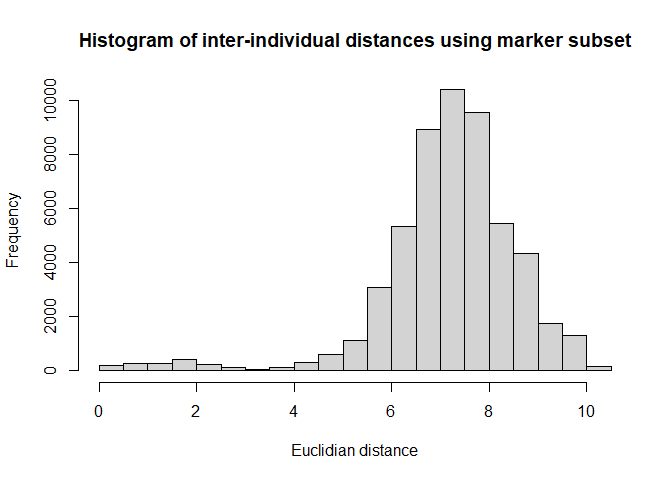
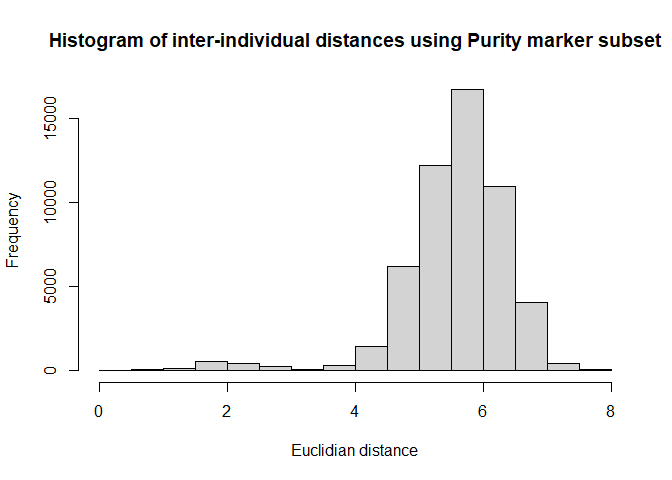
Use large VCF

diff --git a/Pedigree_verification.md b/Pedigree_verification.md
@@ -30,6 +30,7 @@ to point to your dataset.
 
 ``` r
 bg <- "data/331_new_data_vcf_IBRC.vcf.bgz"
+rds <- "data/yam336.m2M2vsnps_missing0.9.recode.rds" # unfiltered markers; optional
 refgenome <- FaFile("data/TDr96_F1_v2_PseudoChromosome.rev07.fasta")
 ```
 
@@ -122,7 +123,7 @@ ggplot(mapping = aes(x = alfreq, y = Ho/He)) +
 
 ![](Pedigree_verification_files/figure-gfm/hohe_vs_alfreq-1.png)<!-- -->
 
-We can see what proportion of markers we would lose at this cutoff, It’s
+We can see what proportion of markers we would lose at this cutoff. It’s
 about 11%.
 
 ``` r
@@ -252,31 +253,58 @@ head(grp_alfreq)
 ## Technical parameters
 
 For this portion of the workflow, we’ll import SNP metadata using the
-`VariantAnnotation` package.
+`VariantAnnotation` package. If you are just working with one VCF, use
+the following code:
 
 ``` r
 myvcf <- readVcf(bg,
                  param = ScanVcfParam(geno = NA))
+```
+
+Otherwise, if you have a larger VCF, with a bigger set of markers, read
+it from the RDS made during setup:
+
+``` r
+myvcf <- readRDS(rds)
 
 rowRanges(myvcf)
 ```
 
-    ## GRanges object with 136429 ranges and 5 metadata columns:
-    ##                     seqnames    ranges strand | paramRangeID            REF                ALT      QUAL      FILTER
-    ##                        <Rle> <IRanges>  <Rle> |     <factor> <DNAStringSet> <DNAStringSetList> <numeric> <character>
-    ##      chrom_01_32840    OM_01     32840      * |           NA              G                  A        NA        PASS
-    ##      chrom_01_45700    OM_01     45700      * |           NA              A                  T        NA        PASS
-    ##      chrom_01_58956    OM_01     58956      * |           NA              T                  C        NA        PASS
-    ##      chrom_01_62865    OM_01     62865      * |           NA              A                  T        NA        PASS
-    ##      chrom_01_65124    OM_01     65124      * |           NA              G                  T        NA        PASS
-    ##                 ...      ...       ...    ... .          ...            ...                ...       ...         ...
-    ##   chrom_20_33017477    OM_20  33017477      * |           NA              A                  G        NA        PASS
-    ##   chrom_20_33017823    OM_20  33017823      * |           NA              C                  T        NA        PASS
-    ##   chrom_20_33017839    OM_20  33017839      * |           NA              T                  C        NA        PASS
-    ##   chrom_20_33017917    OM_20  33017917      * |           NA              T                  C        NA        PASS
-    ##   chrom_20_33018263    OM_20  33018263      * |           NA              A                  G        NA        PASS
+    ## GRanges object with 6095038 ranges and 5 metadata columns:
+    ##                         seqnames    ranges strand | paramRangeID            REF                ALT      QUAL      FILTER
+    ##                            <Rle> <IRanges>  <Rle> |     <factor> <DNAStringSet> <DNAStringSetList> <numeric> <character>
+    ##      chrom_01:32610_A/T chrom_01     32610      * |           NA              A                  T  11.38340           .
+    ##      chrom_01:32612_G/T chrom_01     32612      * |           NA              G                  T   9.86092           .
+    ##      chrom_01:32617_A/C chrom_01     32617      * |           NA              A                  C 352.00000           .
+    ##      chrom_01:32628_C/T chrom_01     32628      * |           NA              C                  T 118.00000           .
+    ##      chrom_01:32656_A/G chrom_01     32656      * |           NA              A                  G 293.00000           .
+    ##                     ...      ...       ...    ... .          ...            ...                ...       ...         ...
+    ##   chrom_20:33018647_T/G chrom_20  33018647      * |           NA              T                  G 999.00000           .
+    ##   chrom_20:33018670_A/T chrom_20  33018670      * |           NA              A                  T 352.00000           .
+    ##   chrom_20:33018687_C/G chrom_20  33018687      * |           NA              C                  G 999.00000           .
+    ##   chrom_20:33018902_T/C chrom_20  33018902      * |           NA              T                  C   6.42809           .
+    ##   chrom_20:33018924_C/T chrom_20  33018924      * |           NA              C                  T 999.00000           .
     ##   -------
-    ##   seqinfo: 20 sequences from an unspecified genome; no seqlengths
+    ##   seqinfo: 2253 sequences from an unspecified genome
+
+Since we have quality scores, we will look at the distribution.
+
+``` r
+hist(rowRanges(myvcf)$QUAL, xlab = "Quality score",
+     main = "Histogram of quality scores in large VCF")
+```
+
+![](Pedigree_verification_files/figure-gfm/qualhist-1.png)<!-- -->
+
+This suggests filtering to only keep the highest scores is advisable. We
+will also make sure to keep any SNPs that were in our smaller VCF.
+
+``` r
+temp <- paste(seqnames(myvcf), start(myvcf), sep = "_")
+
+myvcf <- myvcf[rowRanges(myvcf)$QUAL > 900 | 
+                 temp %in% rownames(snpdf),]
+```
 
 ### GC content
 
@@ -306,8 +334,8 @@ snpdf2 <- filter(snpdf, GCcontent >= 0.4, GCcontent <= 0.6)
 
 ### Number of flanking SNPs
 
-Although we’ll annotate flanking SNPs, the fewer there are, the more
-likely the marker won’t have technical problems.
+Although we’ll annotate flanking SNPs, the fewer there are, the less
+likely the marker will have technical problems.
 
 ``` r
 snpdf2$Nflanking <- nFlankingSNPs(myvcf, rownames(snpdf2))
@@ -318,80 +346,192 @@ hist(snpdf2$Nflanking, xlab = "Number of flanking SNPs",
 
 ![](Pedigree_verification_files/figure-gfm/nflank-1.png)<!-- -->
 
-There seem to be plenty with no flanking SNPs, so we will just keep
-those.
-
 ``` r
-snpdf3 <- filter(snpdf2, Nflanking == 0)
+table(snpdf2$Nflanking)
 ```
 
-### Choosing a set of markers
+    ## 
+    ##     0     1     2     3     4     5     6     7     8     9    10    11    12    13    14    15 
+    ##  5925 10224 10255  8104  5057  2576  1188   494   259   107    60    36     8     7     4     2
+
+The cutoff is arbitrary, but let’s keep markers with two or fewer
+flanking SNPs.
+
+``` r
+snpdf3 <- filter(snpdf2, Nflanking <= 2)
+```
+
+## Choosing a set of markers
 
 Since we are selecting a small set of markers, we want to not only make
 sure that each individual marker has a high minor allele frequency to
 maximize its information content, but also that the markers complement
 each other well so that they can distinguish individuals and genetic
-groups. In the file
-[evaluate\_marker\_sets.R](src/evaluate_marker_sets.R) there is a
-function to use a [simulated annealing
+groups.
+
+Two approaches are presented here. One is a Galaxy tool developed by
+Carlos Ignacio for finding sets of markers that distinguish all
+accessions. The second is an algorithm I developed to maximize diversity
+captured within and between genetic groups.
+
+### Galaxy tool
+
+First, we have to export our set of suitable markers back to VCF. Some
+conversion of marker and chromosome names is done here in order to get
+everything to match.
+
+``` r
+rr3 <- rowRanges(myvcf)[match(rownames(snpdf3),
+                              paste(seqnames(myvcf), start(myvcf), sep = "_"))]
+rr3a <- GRanges(sub("chrom", "OM", seqnames(rr3)), ranges(rr3))
+subvcf <- readVcf(bg, genome = seqinfo(rr3a),
+                  param = ScanVcfParam(which = rr3a))
+
+writeVcf(subvcf, filename = "results/marker_subset.vcf")
+```
+
+Now, on Galaxy, use the [Purity
+tool](http://galaxy-demo.excellenceinbreeding.org/root?tool_id=purity_beta)
+on that VCF file. I set it to select 50 markers after considering 10,000
+solutions, and left the distance cutoff at 0.05. Two files were output,
+and I downloaded the first to my `results` folder. Below I will import
+it to get the marker set.
+
+``` r
+markers_purity <- read.delim("results/Galaxy9-[Purity_(beta)_on_data_8].tabular")$Name[1:50]
+
+sort(markers_purity)
+```
+
+    ##  [1] "chrom_01_13215574" "chrom_01_16722696" "chrom_03_8145709"  "chrom_05_1402614"  "chrom_05_15642980" "chrom_05_16166857" "chrom_05_19197424" "chrom_06_11370264"
+    ##  [9] "chrom_06_1389600"  "chrom_06_16474865" "chrom_06_1721907"  "chrom_06_20333485" "chrom_07_25601418" "chrom_07_25862177" "chrom_08_14532723" "chrom_09_17245165"
+    ## [17] "chrom_09_20244151" "chrom_10_23384975" "chrom_11_15371387" "chrom_11_7476286"  "chrom_12_10725268" "chrom_12_19461014" "chrom_12_19554292" "chrom_12_19646887"
+    ## [25] "chrom_12_9869300"  "chrom_13_2047134"  "chrom_13_45513"    "chrom_14_8004400"  "chrom_15_13652946" "chrom_15_15308370" "chrom_15_182038"   "chrom_15_3166274" 
+    ## [33] "chrom_15_3532953"  "chrom_15_3558766"  "chrom_16_11923021" "chrom_16_11941748" "chrom_16_12630527" "chrom_16_18591145" "chrom_16_22290712" "chrom_16_8905213" 
+    ## [41] "chrom_17_12293584" "chrom_17_13343607" "chrom_17_19171588" "chrom_17_2594646"  "chrom_17_2672794"  "chrom_18_15163101" "chrom_18_16385238" "chrom_19_22645412"
+    ## [49] "chrom_19_22953072" "chrom_20_31820360"
+
+### Simulated annealing algorithm
+
+In the file [evaluate\_marker\_sets.R](src/evaluate_marker_sets.R) there
+is a function to use a [simulated annealing
 algorithm](https://en.wikipedia.org/wiki/Simulated_annealing) to find
 optimal sets of markers that capture diversity within and between
 genetic groups.
 
 ``` r
-markerset <- findMarkerSet(grp_alfreq[rownames(snpdf3),], nSNP = 50)
+markers_simanneal <- findMarkerSet(grp_alfreq[rownames(snpdf3),], nSNP = 50)$Set
 
-sort(markerset$Set)
+sort(markers_simanneal)
 ```
 
-    ##  [1] "chrom_01_23460613" "chrom_01_7371392"  "chrom_02_18854175" "chrom_02_8192166"  "chrom_03_3145899"  "chrom_04_10618167" "chrom_04_1422542"  "chrom_04_8709401" 
-    ##  [9] "chrom_05_17440494" "chrom_05_26274143" "chrom_06_13437232" "chrom_06_1447442"  "chrom_06_15510521" "chrom_06_19822795" "chrom_06_469304"   "chrom_07_19048297"
-    ## [17] "chrom_08_16432568" "chrom_08_19093371" "chrom_08_2766827"  "chrom_08_3830330"  "chrom_08_5200475"  "chrom_09_1827751"  "chrom_10_10758593" "chrom_10_15244241"
-    ## [25] "chrom_10_16549585" "chrom_10_19555171" "chrom_10_20662997" "chrom_10_756562"   "chrom_11_2297948"  "chrom_11_7064329"  "chrom_12_19490150" "chrom_14_14951168"
-    ## [33] "chrom_14_20309706" "chrom_14_422581"   "chrom_15_12013814" "chrom_15_13166455" "chrom_15_13609528" "chrom_15_13952267" "chrom_15_17048703" "chrom_15_17411334"
-    ## [41] "chrom_15_18600988" "chrom_16_13201075" "chrom_16_20811877" "chrom_17_19787441" "chrom_17_19897566" "chrom_17_20162554" "chrom_17_577577"   "chrom_17_9140601" 
-    ## [49] "chrom_19_20026146" "chrom_19_21300319"
+    ##  [1] "chrom_01_27275023" "chrom_02_16909288" "chrom_02_23698309" "chrom_03_18568582" "chrom_04_10618167" "chrom_04_15150750" "chrom_04_8900737"  "chrom_05_1384592" 
+    ##  [9] "chrom_05_17000860" "chrom_05_24296120" "chrom_06_10055883" "chrom_06_15349033" "chrom_06_16479684" "chrom_07_15156246" "chrom_07_29826812" "chrom_08_15408226"
+    ## [17] "chrom_08_16065388" "chrom_09_6928209"  "chrom_10_10660488" "chrom_10_11528458" "chrom_10_14200449" "chrom_10_272561"   "chrom_10_482457"   "chrom_10_663980"  
+    ## [25] "chrom_11_13649874" "chrom_11_2407008"  "chrom_11_6797536"  "chrom_12_19646887" "chrom_14_14921513" "chrom_14_15526286" "chrom_14_20907274" "chrom_15_11969634"
+    ## [33] "chrom_15_12971805" "chrom_15_13236354" "chrom_15_14027608" "chrom_15_16810337" "chrom_15_17159846" "chrom_15_18443213" "chrom_15_18600988" "chrom_16_13058451"
+    ## [41] "chrom_16_20344737" "chrom_16_21818296" "chrom_17_19787441" "chrom_17_9162321"  "chrom_17_9798706"  "chrom_18_7929814"  "chrom_19_21300319" "chrom_19_22363327"
+    ## [49] "chrom_19_23929271" "chrom_19_30122820"
+
+### Comparing the results
 
 How well do the markers distinguish individuals in the dataset?
 
 ``` r
-dist2 <- interIndividualDist(numgen[markerset$Set,])
+dist_purity <- interIndividualDist(numgen[markers_purity,])
 
-hist(dist2, xlab = "Euclidian distance",
-     main = "Histogram of inter-individual distances using marker subset")
+hist(dist_purity, xlab = "Euclidian distance",
+     main = "Histogram of inter-individual distances using Purity marker subset")
 ```
 
 ![](Pedigree_verification_files/figure-gfm/markerset_dist-1.png)<!-- -->
 
 ``` r
-mean(dist2 == 0)
+mean(dist_purity == 0)
 ```
 
-    ## [1] 0.003595522
+    ## [1] 9.26681e-05
+
+``` r
+dist_simanneal <- interIndividualDist(numgen[markers_simanneal,])
+
+hist(dist_simanneal, xlab = "Euclidian distance",
+     main = "Histogram of inter-individual distances using simulated annealing marker subset")
+```
+
+![](Pedigree_verification_files/figure-gfm/markerset_dist-2.png)<!-- -->
+
+``` r
+mean(dist_simanneal == 0)
+```
+
+    ## [1] 0.00194603
 
 If two individuals were selected at random, there is a 0.2% chance that
-they would have identical genotypes across all markers.
+they would have identical genotypes across all markers using the
+simulated annealing algorithm, as opposed to a 0.01% chance using
+markers from the Purity algorithm. So, the Purity algorithm is somewhat
+better for distinguishing individuals.
 
-### Exporting markers
+We can also compare the geometric mean of expected heterozygosity in all
+of the populations.
+
+``` r
+DivScore(grp_alfreq[markers_purity,])
+```
+
+    ## [1] 0.2987475
+
+``` r
+DivScore(grp_alfreq[markers_simanneal,])
+```
+
+    ## [1] 0.3681497
+
+The simulated annealing algorithm gives higher expected heterozygosity.
+
+We can also see the geometric mean of Jost’s D, a differentiation
+statistic among populations.
+
+``` r
+DiffScore(grp_alfreq[markers_purity,])
+```
+
+    ## [1] 0.0417267
+
+``` r
+DiffScore(grp_alfreq[markers_simanneal,])
+```
+
+    ## [1] 0.09835632
+
+The simulated annealing algorithm gives higher differentiation among
+populations.
+
+## Exporting markers
 
 Now we can get the flanking sequences for the markers that we selected.
 
 ``` r
-markerseq <- formatKasp(myvcf, markerset$Set, refgenome)
+markerseq1 <- formatKasp(myvcf, markers_purity, refgenome)
+markerseq2 <- formatKasp(myvcf, markers_simanneal, refgenome)
 
-head(markerseq)
+head(markerseq1)
 ```
 
     ##              SNP_ID                                                                                                Sequence
-    ## 1  chrom_08_5200475 GCTGCCGGTGGTTCACGGTTTGTTCCCATACCAGAAGCAGACGATGAGGA[Y]GATGATGGTGAGTTTCAGGGCTTTTCAGTCACGCCCACCAGCACATCACC
-    ## 2   chrom_06_469304 AGGAATTAGAAGAGGTGAGCTGCGAACGAACCAGTGCTAGTTCTGTAATT[R]TGTCAGAAATATGAGGGTGATTGTTGTAAGTTTTAACGCAGTTGATAGTC
-    ## 3 chrom_10_10758593 GGAGAAATTGAATAACCTCTCAACCTCGCACTCGTATAGAATTGCAATGA[R]TTCTAGGGATTCCAAGTGATAAACCCTATCCCTATGTATAGACCTAACCC
-    ## 4 chrom_14_14951168 ATCTCTGTGTACCTCCAGAGCATCCATACACATAAATGACTCCTCATGCG[R]TTACCAGTACAACCAGTGTCAAATAGGAATGTAGGATGATCCTCTCTTTC
-    ## 5 chrom_08_16432568 GTAAAACCACTGGCCACCAACCGGGTTTGTAGCAATCAACTGTACCATCA[R]CTTTGTGCTTGATAGAGAAGACCTATCGGCAAGTGACGACACTGGTATCA
-    ## 6 chrom_19_20026146 AAGGTAGGTCTTGGGAGCATTGCAAGCACTGGTATCAGGATCAATCCCCG[R]CCCCCAATGCCAGAGTCTTCGTACTCGACAGCACAGCAGGGTACAACATC
+    ## 1 chrom_01_13215574 CACCGCTAGGRGAGTTGAGTATAGAGTTCAGCAGTCCACTTCTTCGACTG[Y]TGCTTCTGAGGTACTCCMGGTAGGTGAAGATACCCCTGTCCCACCACTAA
+    ## 2 chrom_01_16722696 GGTACCGATCCGACGAGCTGTATCCTAGGCCGGACAAAGGGACCCTTGGA[Y]GAGTAGAAGACTCTCCAAAAGACCATCACCACAACTATYGAGGARGTTTT
+    ## 3  chrom_03_8145709 TTTGCTATTCYCGAGCACCAGGTGCATTTTGAACGTTTGTCGAGACTTTC[R]TTTCGGACATACTCGATTCCTGGACACAAGCATATTAATAGATCTACGRC
+    ## 4  chrom_05_1402614 ATACCCCTGGAAGATCTAATCCAAGGGGTAGGCTGCCCATTAATAAGAAA[R]GAAAAGGAGGTGGAAGAAATACAAGCTTCTATCCAGGAGATCCAAATAGG
+    ## 5 chrom_05_15642980 CAACAGAGTGATGTGTTGAAGTAATCYTTAGTGCTGGGGCTTAATTKTGA[S]TAGAGGTCTTTCACCTAGACCAAAGGGTTAGATCTATATTAGGGAATAGG
+    ## 6 chrom_05_16166857 ATTCCTAAGTTGGTGGTGAATCGACCTGCTTCTCTTTTCCCTTATACTTG[Y]TTTATATGGACTCCTTCCCACTTGTTTTAGCCACCTTATGCTTCTCCGTT
 
 These can be exported to a spreadsheet.
 
 ``` r
-write.csv(markerseq, file = "pedigree_verification_markers.csv")
+write.csv(markerseq1, file = "results/pedigree_verification_markers_Purity.csv",
+          row.names = FALSE)
+write.csv(markerseq2, file = "results/pedigree_verification_markers_simanneal.csv",
+          row.names = FALSE)
 ```

diff --git a/Setup.md b/Setup.md
@@ -30,12 +30,13 @@ your VCF, reference FASTA, and any other input files. You don’t have to
 put them here, but if they are somewhere else you will need to specify
 the full path to them.
 
-In this case I have two VCFs for two different projects, but you might
+In this case I have three VCFs for two different projects, but you might
 just have one.
 
 ``` r
 vcf1 <- "data/331_new_data_vcf_IBRC.vcf"
 vcf2 <- "data/unique_173_clones.recode.vcf"
+vcf3 <- "data/yam336.m2M2vsnps_missing0.9.recode.vcf"
 genfasta <- "data/TDr96_F1_v2_PseudoChromosome.rev07.fasta"
 ```
 
@@ -131,6 +132,23 @@ hdr2
     ## fixed(2): FILTER ALT
     ## info(17): INDEL IDV ... DP4 MQ
     ## geno(7): GT PL ... GQ GP
+
+## Importing SNP metadata only from a larger VCF
+
+In some cases, you may have a much larger, unfiltered VCF. Although you
+don’t plan to mine markers from the VCF, you still need to know the
+location and alleles of those SNPs so they can be annotated in the
+flanking sequence that you will use for KASP design. The script
+`snp_positions_from_vcf.R` reads the VCF and saves the SNP metadata to
+an R object. The script is designed to be run on a bioinformatics server
+or cluster from the terminal like so:
+
+``` bash
+Rscript snp_positions_from_vcf.R --args yam336.m2M2vsnps_missing0.9.recode.vcf yam336.m2M2vsnps_missing0.9.recode.rds
+```
+
+After successfully running it, you can download the `.rds` file to your
+`data` directory.
 
 ## Quality control
 
@@ -311,3 +329,14 @@ mean(rowRanges(vcf2)$REF == refcheck2) # this should return 1
     ## [1] 1
 
 The reference allele matches the reference genome 100% of the time.
+
+We can check with our larger VCF as well.
+
+``` r
+vcf3 <- readRDS(sub("vcf$", "rds", vcf3))
+
+refcheck3 <- scanFa(refgenome, rowRanges(vcf3))
+mean(rowRanges(vcf3)$REF == refcheck3) # this should return 1
+```
+
+    ## [1] 1
